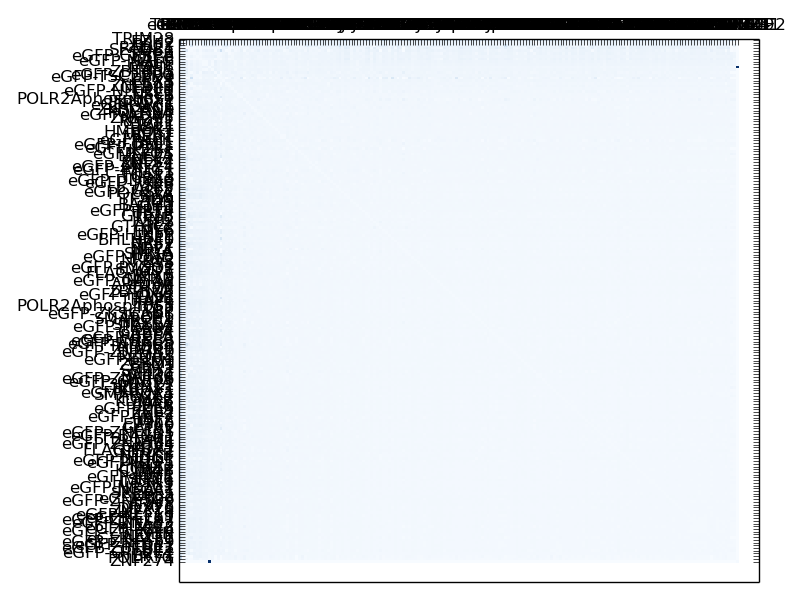
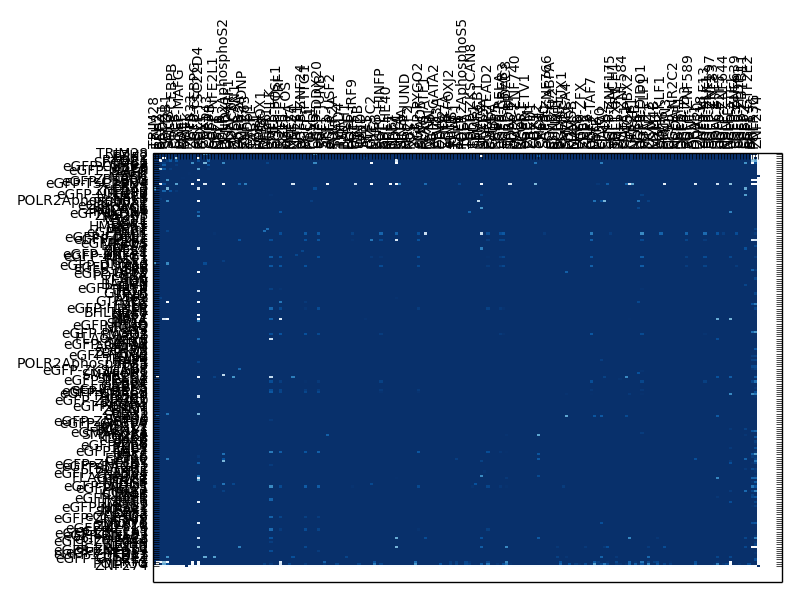
updates

diff --git a/src/create_matrix.py b/src/create_matrix.py
@@ -69,23 +69,24 @@ def run(files,figures):
             i += tuple1[1]
         order.append((key,i))
     
-    print d1
-    
     order = sorted(order,key=itemgetter(1),reverse=True)
     labels = [i for (i,j) in order]
-    print labels[-1]
     vectors = list()
+    M = 0
     for i in range(len(labels)):
         vectors.append(list())
         for j in range(len(labels)):
             index = [y[0] for y in d1[labels[i]]].index(labels[j])
             vectors[i].append(d1[labels[i]][index][1])
+            if d1[labels[i]][index][1] > M:
+                M=d1[labels[i]][index][1]
+                
     #vectors = [d1[name][i][1] for name,i in labels,range(len(labels))]
     
     vectors = np.array(vectors)
             
     fig, ax = plt.subplots()
-    heatmap = ax.pcolor(vectors, cmap=plt.cm.Blues, vmin=0, vmax=1)
+    heatmap = ax.pcolor(vectors, cmap=plt.cm.Blues, vmin=0, vmax=M)
     
     
    # put the major ticks at the middle of each cell
@@ -96,7 +97,8 @@ def run(files,figures):
     ax.invert_yaxis()
     ax.xaxis.tick_top()
     
-    ax.set_xticklabels(labels, minor=False, fontsize=10)
-    ax.set_yticklabels(labels, minor=False, fontsize=10)
+    ax.set_xticklabels(labels, minor=False, fontsize=8)
+    ax.set_yticklabels(labels, minor=False, fontsize=8)
     plt.xticks(rotation=90)
+    fig.set_size_inches(20, 15,forward=True)
     plt.savefig(figures + 'matrix.png')
